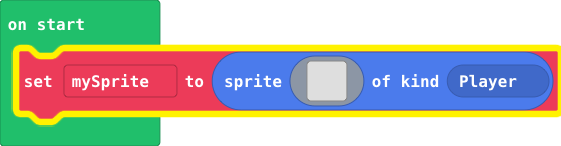
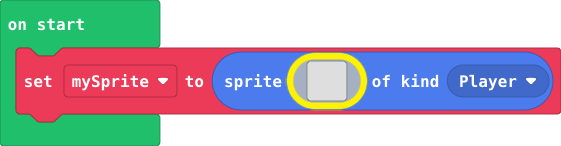
Update main.blocks, main.ts

Changed region(s): [[0.0, 0.3014, 1.0, 0.8767], [0.2727, 0.5205, 0.303, 0.5753]]

diff --git a/main.ts b/main.ts
@@ -1,17 +1,17 @@
 let mySprite = sprites.create(img`
     . . . . . . . . . . . . . . . . 
     . . . . . . . . . . . . . . . . 
-    . . . . . . . . . . . . . . . . 
-    . . . . . . . . . . . . . . . . 
-    . . . . . . . . . . . . . . . . 
-    . . . . . . . . . . . . . . . . 
-    . . . . . . . . . . . . . . . . 
-    . . . . . . . . . . . . . . . . 
-    . . . . . . . . . . . . . . . . 
-    . . . . . . . . . . . . . . . . 
-    . . . . . . . . . . . . . . . . 
-    . . . . . . . . . . . . . . . . 
-    . . . . . . . . . . . . . . . . 
+    . . . . 3 . . . . . . . . . . . 
+    . . . . 3 3 3 . . . . . . . . . 
+    . . . . 3 3 3 . 3 3 . 3 . . . . 
+    . . . . 3 3 3 . 3 3 3 . . . . . 
+    . . . . 3 3 3 . 3 3 3 . . . . . 
+    . . . . 3 . 3 . 3 3 3 . . . . . 
+    . . . . 3 . 3 . 3 3 3 . . . . . 
+    . . . . 3 . . 3 3 3 3 . . . . . 
+    . . . . . . . 3 3 . 3 . . . . . 
+    . . . . . . . 3 . . 3 . . . . . 
+    . . . . . . . . . . 3 . . . . . 
     . . . . . . . . . . . . . . . . 
     . . . . . . . . . . . . . . . . 
     . . . . . . . . . . . . . . . . 
